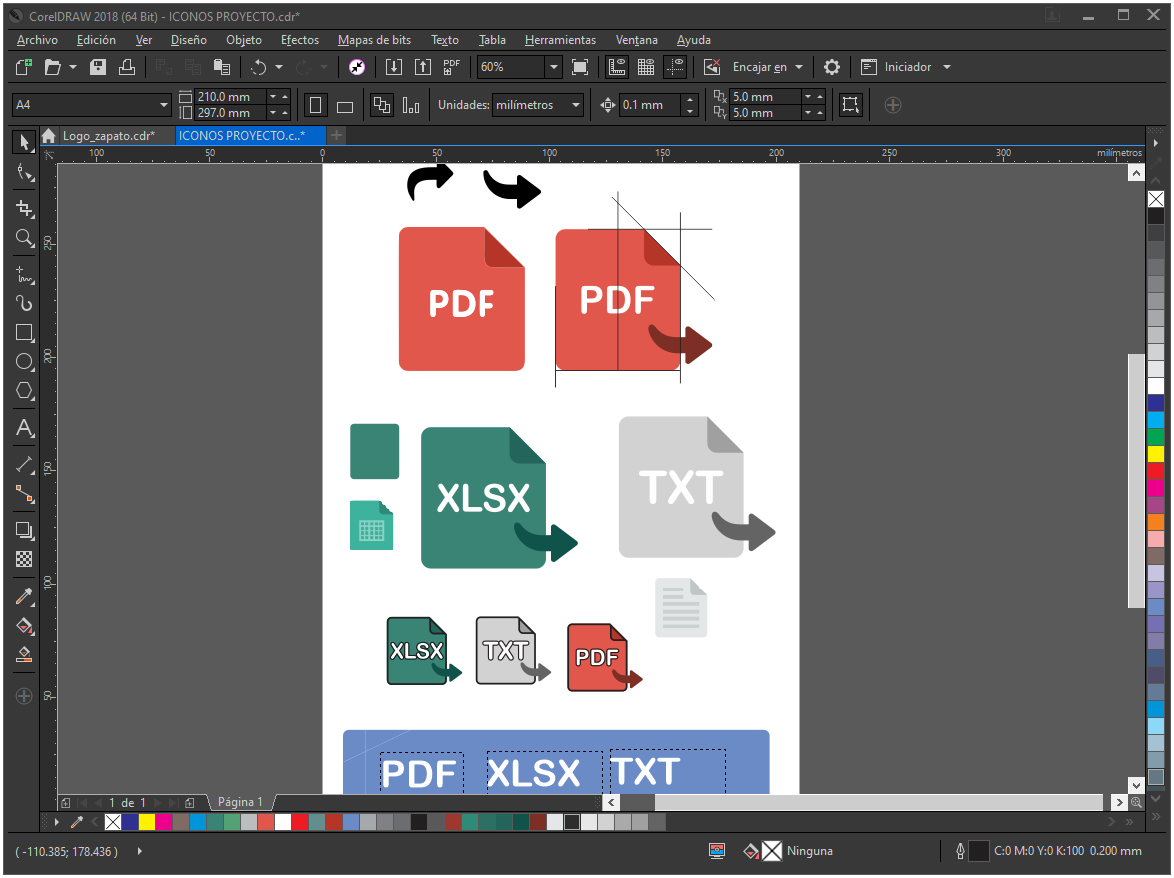
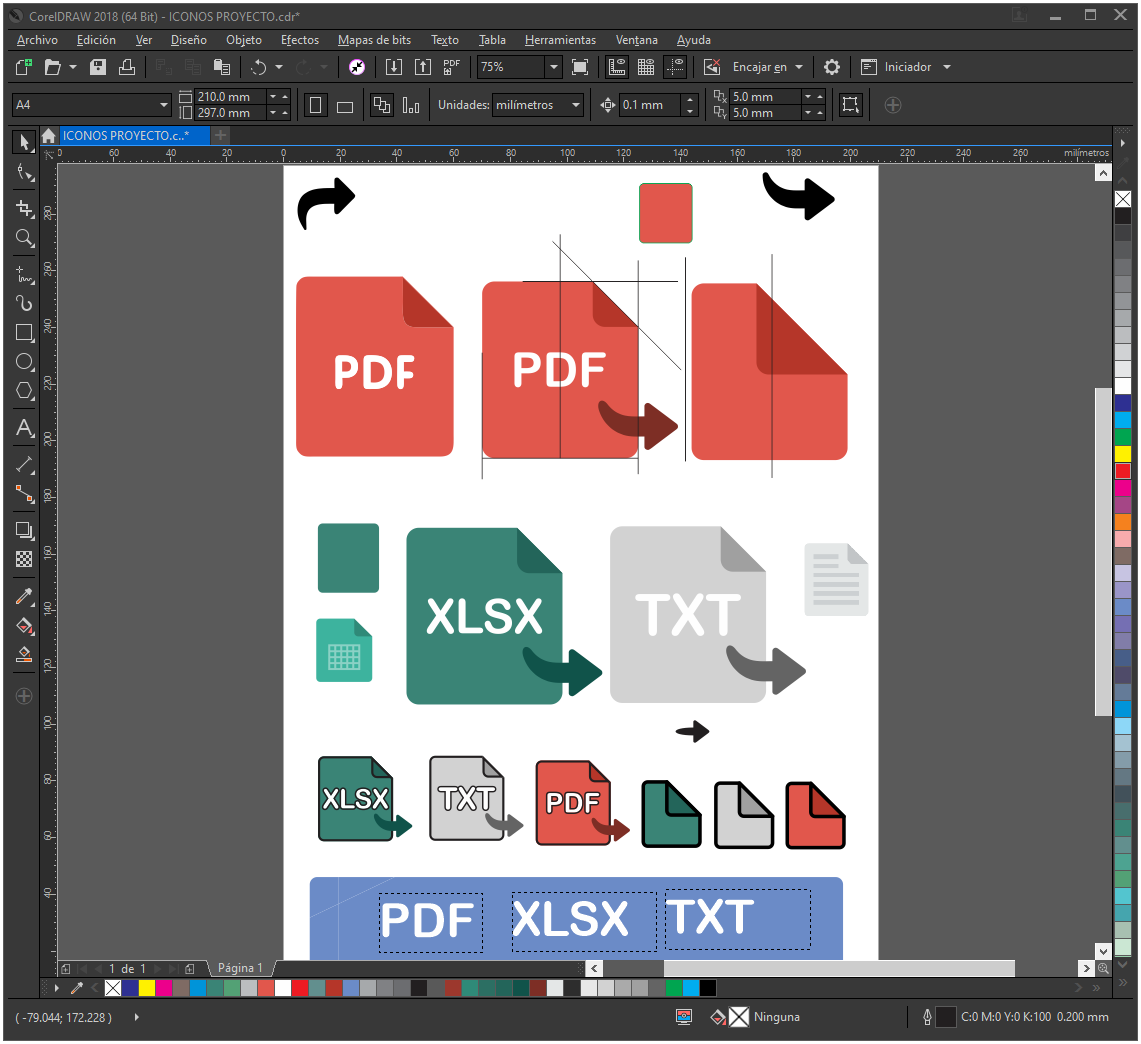
Version_3.0

diff --git a/README.md b/README.md
@@ -15,7 +15,7 @@ Se realizó:
 
 ## 2nd version
 
-Se desarrollo el mantenimiento empleado, el cual posee las siguientes funciones:
+Se desarrollo el mantenimiento Empleado, el cual posee las siguientes funciones:
 - Permite añadir un nuevo empleado, donde el sistema autogenera un código de identificacion asi como un usuario y contraseña, estos ultimos en funcion de sus datos personales.
 - Podemos modificar los datos de cada empleado, para esto debemos primero hacer uso del buscador con sus filtros para localizarlo.
 - Podemos hacer un reporte de los empleados en los formatos de texto, excel y pdf, estos tambien pueden hacer uso de los filtros.
@@ -28,6 +28,17 @@ para esta segunda version se realizo tambien:
 | ------------- |:-------------:|:-------------:|:-------------:|
 | ![][2nd_img_1] | ![][2nd_img_2] | ![][2nd_img_3] | ![][2nd_img_4] |
 
+## 3rd version
+Se desarrollo el mantenimiento Calzado con muchas de las caracteristicas del mantenimiento Empleado como, los reportes o los codigos que se autogenera, pero se añadieron otras nuevas :
+- Se incluyo dentro de este, otros mantenimientos que eran necesarios, esto con el fin de agilizar los registros de los calzados sin tener que entrar a otras ventanas para hacer esto.
+- Se añadio la opcion de transferir desde el panel Modelo el nombre, para facilitar el registro de los calzados.
+- Se amplio, las consultas a la Base de Datos para que nos permita filtrar los registros con una mayor cantidad de opciones.
+- Se realizo validaciones para los valores criticos como los numeros que podrian generaban errores en el sistema.
+
+| Imagen 1 | Imagen 2 |
+| ------------- |:-------------:|
+| ![][3rd_img_1] | ![][3rd_img_2] |
+
 ---
 
 ### Herramientas utilizadas:
@@ -37,6 +48,8 @@ para esta segunda version se realizo tambien:
 - **Corel Draw** para la creacion de iconos.
 - **Visual Studio Code** para la edicion de este README.md.
 - **Git Bash** para subir y actualizar este repositorio.
+
+
 
 ---
 
@@ -51,3 +64,6 @@ para esta segunda version se realizo tambien:
 [2nd_img_2]: ./screenshot/version_02_02.png
 [2nd_img_3]: ./screenshot/version_02_03.png
 [2nd_img_4]: ./screenshot/version_02_04.png
+[3rd_img_1]: ./screenshot/version_03_01.png
+[3rd_img_2]: ./screenshot/version_03_02.gif
+
